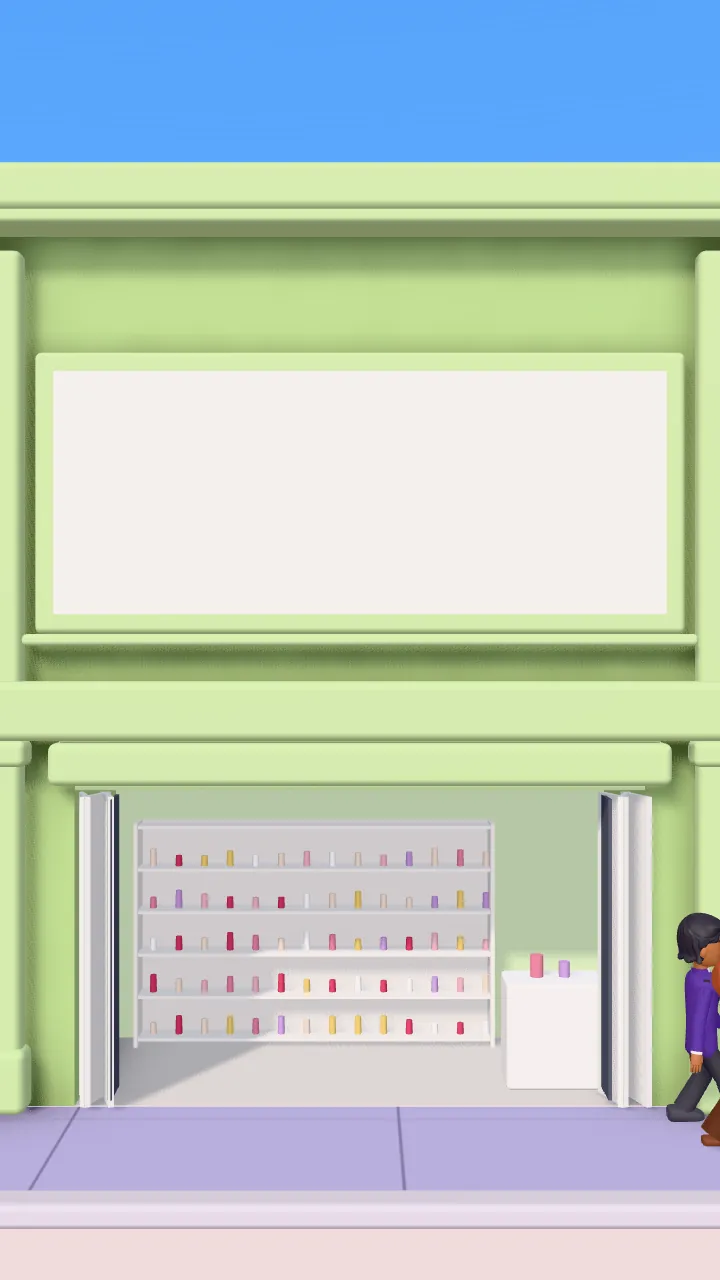
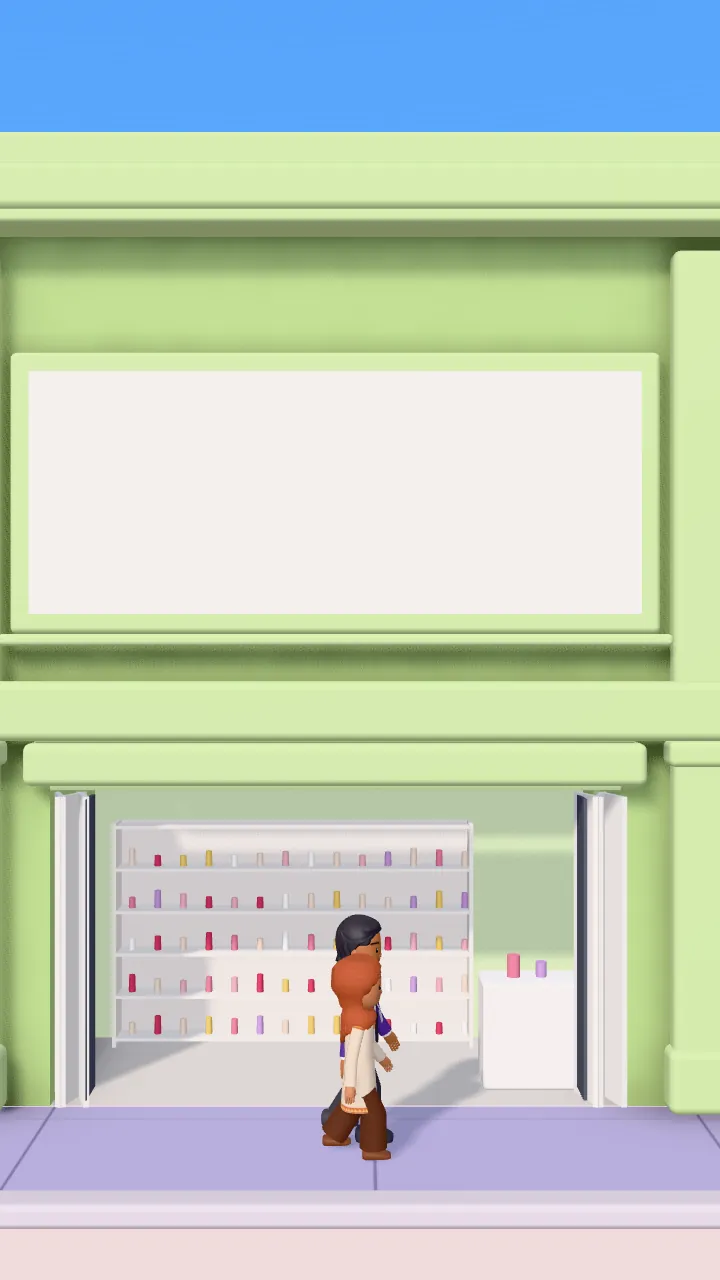
Take the electronics shop and its "Konsultasi gratis" panel out of the row
The row is five shops, then Kreatekno (its door ±42 m from COMPANY's). The
journey's CTA block on the panels goes with it (header, floating button and
the night billboard keep the CTA). The walk along the row is 0.5 screen
shorter so Heru and Bu Dewi keep their pace; the K5a.4 hold is centred on the
cosmetics shop's panel. The high view out of K9b uses the last shop. Row AO
re-baked, K5a.4 and K5a.6 stills re-rendered, the K5a.4b still dropped.

Claude-Session: https://claude.ai/code/session_01QgwjwXttiUF7uox4ZEd4Hu

diff --git a/site/world/sets/rowLayout.ts b/site/world/sets/rowLayout.ts
@@ -2,14 +2,14 @@
 // only (no three.js), shared by the world (set, camera, copy anchors) and the page. Metres, the world frame of
 // sets/street.ts: x along the street, y up, z toward the street, the facades at z 0.
 // Every shop is 7 m wide like the fruit shop and the laundry of K1 (Master 7: 0.62 × COMPANY's 11.6 m); its
-// first-floor panel carries the customer journey: fruit = kicker and heading, laundry … cosmetics = steps 1–4,
-// electronics = the "Konsultasi gratis" button pointing on to Kreatekno's door. The videos' internet café and stall
-// (blank panels) are left out (user, 7 Nov): six shops, then Kreatekno.
+// first-floor panel carries the customer journey: fruit = kicker and heading, laundry … cosmetics = steps 1–4.
+// The videos' internet café and stall (blank panels) are left out (user, 7 Nov), and the electronics shop with its
+// "Konsultasi gratis" panel too (user, 14 Nov): five shops, then Kreatekno.
 import { DATA } from "../takes/home/data";
 
-export type PanelCopy = "intro" | "talk" | "map" | "build" | "launch" | "cta" | null;
+export type PanelCopy = "intro" | "talk" | "map" | "build" | "launch" | null;
 export type Shop = {
-  id: "buah" | "laundry" | "sepatu" | "warteg" | "kosmetik" | "elektronik";
+  id: "buah" | "laundry" | "sepatu" | "warteg" | "kosmetik";
   /** Facade colour and its lighter trim (pillars, bands). */
   body: string;
   trim: string;
@@ -22,7 +22,6 @@ export const SHOPS: Shop[] = [
   { id: "sepatu", body: "#f0a9c6", trim: "#f6c3d8", copy: "map" },
   { id: "warteg", body: "#a6dbe6", trim: "#bfe7ef", copy: "build" },
   { id: "kosmetik", body: "#b6d58f", trim: "#c9e2a8", copy: "launch" },
-  { id: "elektronik", body: "#93dcc8", trim: "#ade6d6", copy: "cta" },
 ];
 
 const X0 = DATA.ext.xfR + 0.06;
@@ -45,13 +44,13 @@ export const ROW = {
   panel: { w: 5.2, h: 2.06, y: 5.25, z: 0.12 },
 } as const;
 
-/** Left and right edge and centre of shop i (0 = fruit … 7 = electronics). */
+/** Left and right edge and centre of shop i (0 = fruit … 4 = cosmetics). */
 export function shopX(i: number) {
   const x0 = ROW.x0 + i * ROW.pitch;
   return { x0, x1: x0 + ROW.w, cx: x0 + ROW.w / 2 };
 }
 
-/** Kreatekno's office after the electronics shop (video K5a.6: ±1.75 shops wide), its door, plaque and lamp. */
+/** Kreatekno's office after the last shop (video K5a.6: ±1.75 shops wide), its door, plaque and lamp. */
 const KX0 = shopX(SHOPS.length - 1).x1 + ROW.gap;
 export const KREATEKNO = {
   x0: KX0,

diff --git a/site/world/takes/home/timing.ts b/site/world/takes/home/timing.ts
@@ -8,9 +8,12 @@
 // read; the camera never waits on the copy (issue #4: no dwell).
 // Beats 5a–5b (the team's videos K4 → K5a.6): rise and turn to look over Heru's shoulder at Bu Dewi nodding (K4.1,
 // short hold), dolly straight back through the door out to the facade (K4.2, passed slowly, no hold), dolly out as
-// Heru and Bu Dewi come out (K5a.1, short hold), then truck right along the row: K5a.2–K5a.4 frame two panels each
-// and the camera stands still there, and K5a.6 settles at Kreatekno's door. The videos' K5a.5 (the stall and the
-// electronics shop) is gone with the blank shops (user, 7 Nov): K5a.4 frames the cosmetics and electronics shops.
+// Heru and Bu Dewi come out (K5a.1, short hold), then truck right along the row: K5a.2 and K5a.3 frame two panels
+// each, K5a.4 the cosmetics shop's (step 4) with Kreatekno coming in on the right, and K5a.6 settles at Kreatekno's
+// door. The videos' K5a.5 (the stall and the electronics shop) is gone with the blank shops (user, 7 Nov), and the
+// electronics shop with its "Konsultasi gratis" panel too (user, 14 Nov): the row is 0.5 screen shorter (one shop,
+// 7.05 m, at the pair's walk of ±14.6 m per screen), so the walk keeps its pace; the K5a.4 hold is centred on the
+// cosmetics shop's panel (9:16 has it in the middle of the screen at 13.7 screens).
 // Plain numbers only: the page imports this for the stage height and the stills fallback.
 import { holdP, scrollTotal, segmentsTotal, type Segment } from "../../core/segments";
 
@@ -68,9 +71,9 @@ export const SEG: Segment<KeyName>[] = [
   { type: "hold", from: "K5a.2", screens: 0.6 },
   { type: "move", from: "K5a.2", to: "K5a.3", screens: 0.5 },
   { type: "hold", from: "K5a.3", screens: 0.6 },
-  { type: "move", from: "K5a.3", to: "K5a.4", screens: 0.5 },
-  { type: "hold", from: "K5a.4", screens: 0.6 },
-  { type: "move", from: "K5a.4", to: "K5a.6", screens: 0.5 },
+  { type: "move", from: "K5a.3", to: "K5a.4", screens: 0.15 },
+  { type: "hold", from: "K5a.4", screens: 0.3 },
+  { type: "move", from: "K5a.4", to: "K5a.6", screens: 0.65 },
   { type: "hold", from: "K5a.6", screens: 0.3 },
   // Beats 6–9a (tahap 7, the team's videos K5a.6 → K9.1): through Kreatekno's door to the corkboard (K6), truck
   // left to the rack (K7), on left and round to the meeting room's glass (K8), turn to the facade (K9.1). Separate

diff --git a/site/world/sets/shop.ts b/site/world/sets/shop.ts
@@ -1,7 +1,7 @@
 // One two-storey shophouse of the row (Master 7 and the team's videos K5a.1–K5a.6): pillars, the first-floor band,
 // the white panel upstairs (the customer journey's copy sits on it as HTML, tahap 6 langkah 4), and the open shop
 // front with white folding doors pushed aside and the shop's goods inside. Shared by the main bundle (the fruit
-// shop and the laundry are seen from K0/K1 on) and the row chunk (./row, the other six).
+// shop and the laundry are seen from K0/K1 on) and the row chunk (./row, the other three).
 // Per shop: the front wall (its own material for its baked AO map), trim, body colour, white parts, and one
 // vertex-coloured mesh for the inside and the goods: ±6 draw calls, culled per shop.
 import * as THREE from "three";
@@ -343,27 +343,6 @@ function goods(id: Shop["id"], I: Tint, cx: number, ow: number, oh: number, deep
       I.add(G.rbox(0.9, 0.95, 0.5, 0.04), "#fbfafa", mtx([cx + 1.75, 0.48, z(0.6)]));
       I.add(G.cyl(0.06, 0.06, 0.2, 10), "#e88aa6", mtx([cx + 1.6, 1.05, z(0.6)]));
       I.add(G.cyl(0.05, 0.05, 0.14, 10), "#c9a0dc", mtx([cx + 1.85, 1.02, z(0.6)]));
-      break;
-    }
-    case "elektronik": {
-      // dark shelves with TVs, microwaves and speakers
-      const level = shelf(cx, ow - 0.4, 2.2, 0.5, 4, "#3a3d47");
-      const items: [number, number, string][] = [
-        [0.62, 0.38, "#1e2028"],
-        [0.5, 0.3, "#c9ccd3"],
-        [0.3, 0.42, "#2b2d36"],
-        [0.55, 0.34, "#1e2028"],
-      ];
-      for (let k = 0; k < 4; k++) {
-        let x = cx - (ow - 0.6) / 2;
-        while (x < cx + (ow - 0.6) / 2 - 0.3) {
-          const [w, h, col] = pick(items);
-          I.add(G.box(w, h, 0.36), col, mtx([x + w / 2, level(k) + h / 2, z(deep - 0.28)]));
-          if (col === "#1e2028")
-            I.add(G.box(w - 0.06, h - 0.06, 0.01), "#3d4766", mtx([x + w / 2, level(k) + h / 2, z(deep - 0.465)]));
-          x += w + 0.08;
-        }
-      }
       break;
     }
   }

diff --git a/site/components/home/stage.css b/site/components/home/stage.css
@@ -240,8 +240,7 @@
   margin-top: 20px;
 }
 
-/* beat 5b · the customer journey (stacked: the K5a.2 still, then the heading, the four steps and the button as
-   plain blocks; the other stills of beats 5a–5b only exist for the stills fallback) */
+/* beat 5b · the customer journey (stacked: the K5a.2 still, then the heading and the four steps as plain blocks; the other stills of beats 5a–5b only exist for the stills fallback) */
 .take-mark[data-at="K5a.2"] {
   order: 6;
 }
@@ -253,9 +252,6 @@
 }
 .journey-step {
   order: 9;
-}
-.journey-cta {
-  order: 10;
 }
 .take-still[data-stack="no"] {
   display: none;
@@ -305,16 +301,6 @@
 }
 .journey-step[data-step="launch"] {
   --acc: var(--color-navy);
-}
-.journey-cta {
-  display: flex;
-  align-items: center;
-  gap: 12px;
-}
-.cta-arrow {
-  width: 28px;
-  height: 28px;
-  color: var(--color-purple-deep);
 }
 
 @media (scripting: enabled) and (prefers-reduced-motion: no-preference) {
@@ -821,32 +807,5 @@
     font-size: max(13px, 4.9cqw);
     line-height: 1.3;
     text-wrap: pretty;
-  }
-  .journey-copy.journey-cta {
-    flex-direction: row;
-    align-items: center;
-    justify-content: center;
-    gap: 3.5cqw;
-  }
-  .journey-copy.journey-cta > * {
-    margin-inline: 0;
-  }
-  .journey-cta .btn {
-    --t-btn: max(14px, 5.2cqw);
-    gap: 3cqw;
-    min-height: max(44px, 14.5cqw);
-    padding-left: 6cqw;
-  }
-  .journey-cta .knob {
-    width: max(32px, 10.5cqw);
-    height: max(32px, 10.5cqw);
-  }
-  .journey-cta .knob svg {
-    width: 55%;
-    height: 55%;
-  }
-  .journey-cta .cta-arrow {
-    width: max(20px, 8cqw);
-    height: max(20px, 8cqw);
   }
 }

diff --git a/site/components/home/props/Journey.tsx b/site/components/home/props/Journey.tsx
@@ -1,13 +1,11 @@
-import { ArrowRight } from "@phosphor-icons/react/ssr";
 import { getTranslations } from "next-intl/server";
-import { WhatsAppButton } from "@/components/layout/WhatsAppButton";
 
 const STEPS = ["talk", "map", "build", "launch"] as const;
 
 /**
  * Beat 5b · Cara kerja: the customer journey printed on the white panels of the shophouses Heru and Bu Dewi walk past
  * (tahap 6): the fruit shop carries the kicker and the heading, the laundry, shoe shop, food stall and cosmetics
- * shop the four steps, the electronics shop the "Konsultasi gratis" button pointing on to Kreatekno's door. Real
+ * shop the four steps (the electronics shop with the "Konsultasi gratis" button was taken out, user 14 Nov). Real
  * HTML rendered on the server; in the film the world places each block on its panel (anchors "journey-*") at the
  * size it has on screen where the camera stops, so the text is sharp there. Hidden (not tabbable) while its panel is
  * off screen.
@@ -45,18 +43,6 @@ export async function Journey() {
           <p>{t(`${k}.body`)}</p>
         </div>
       ))}
-      <div
-        data-anchor
-        data-landscape="journey-cta"
-        data-portrait="journey-cta"
-        data-fade
-        className="prop-copy journey-copy journey-cta"
-        suppressHydrationWarning
-      >
-        <WhatsAppButton section="journey" />
-        {/* points on down the street to Kreatekno's door */}
-        <ArrowRight aria-hidden className="cta-arrow" weight="bold" />
-      </div>
     </>
   );
 }

diff --git a/site/world/takes/home/beat9.ts b/site/world/takes/home/beat9.ts
@@ -11,7 +11,7 @@ import * as THREE from "three";
 import { rectAnchor, type Anchor } from "../../core/anchors";
 import { clamp01, segmentStart, smoothstep } from "../../core/segments";
 import type { CamPose } from "../../core/take";
-import { KREATEKNO, shopX } from "../../sets/rowLayout";
+import { KREATEKNO, SHOPS, shopX } from "../../sets/rowLayout";
 import { monotone } from "./counter";
 import { k91View } from "./lobby";
 import { fitFov } from "./outside";
@@ -174,11 +174,12 @@ const K10 = v(32, 15.5, 7.5, 0, D2R(24), 40);
 const upTrack = (t: number) =>
   cached(`up ${t.toFixed(3)}`, () => {
     const a = t < 0.5 ? K9B_PC : mix(K9B_PC, K9B_HP[1], t);
-    const e5 = shopX(5);
+    // (the last shop left of Kreatekno: the electronics shop until it was taken out, user 14 Nov)
+    const e5 = shopX(SHOPS.length - 1);
     return track([
       { at: 0, view: a },
       { at: 0.12, view: v(P.cx - 0.6, 2.4, 4.6, -0.05, D2R(-6), 40) },
-      // high in front of the electronics shop, looking down at Kreatekno's front and the three on the pavement
+      // high in front of the last shop, looking down at Kreatekno's front and the three on the pavement
       { at: 0.38, view: v(e5.cx, 9.5, 14.5, -0.42, D2R(-30), 40) },
       { at: 0.6, view: v(e5.cx - 1.5, 12.5, 12.0, -0.3, D2R(-26), 40) },
       // over the roofs, looking along them (video 12.5–13 s)

diff --git a/site/world/sets/row.ts b/site/world/sets/row.ts
@@ -1,5 +1,5 @@
 // Set A continued (beats 5a–5b), its own chunk, built as the camera nears K4.1: the shophouses from the shoe shop
-// to the electronics shop (the fruit shop and the laundry, seen from K1 on, are built with the street), Kreatekno's
+// to the cosmetics shop (the fruit shop and the laundry, seen from K1 on, are built with the street), Kreatekno's
 // office and the end house, with the pavement, kerb and road running on past them. Master 7 and the team's videos
 // K5a.1–K5a.6. The lobby inside Kreatekno is its own chunk (sets/lobby, tahap 7); until it is built a lit backdrop
 // shows through the glass. The facade's glass is one-sided: dark seen from the street, nearly clear from the lobby.
@@ -365,7 +365,7 @@ function buildLampGlow(kit: Kit, x: number, y: number, z: number, plaqueTop: num
 const shutters = new WeakMap<Kit, THREE.Texture>();
 
 /**
- * The shops from the shoe shop to the electronics shop and the end house, in a group of their own: unseen from the
+ * The shops from the shoe shop to the cosmetics shop and the end house, in a group of their own: unseen from the
  * lobby, so the world lets them go there and builds them again (with their AO maps) on the way back out.
  */
 export function buildFar(kit: Kit, M: RowMaterials, ao: AoTarget[], occ: THREE.BufferGeometry[]) {

diff --git a/site/components/home/HomeTake.tsx b/site/components/home/HomeTake.tsx
@@ -37,9 +37,9 @@ const STILL_FADES: Record<string, [number, number]> = {
   "K5a.2b": [11.9, 12.08],
   "K5a.3": [12.4, 12.8],
   "K5a.3b": [13, 13.18],
-  "K5a.4": [13.5, 13.9],
-  "K5a.4b": [14.1, 14.28],
-  "K5a.6": [14.6, 15],
+  // (14 Nov: the electronics shop is gone, K5a.4 is the cosmetics shop's panel alone and the row 0.5 screen shorter)
+  "K5a.4": [13.4, 13.68],
+  "K5a.6": [14.1, 14.5],
   // beats 6–9a (tahap 7): each hold's still as the camera settles, on 9:16 one per stop, K9.1 at the turn
   ...lobbyStillFades(),
   // beats 9b–11 (tahap 8): the plaque as the dolly reaches it (9:16 its right column after), COMPANY's door
@@ -52,7 +52,7 @@ const STILL_FADES: Record<string, [number, number]> = {
 /** Stills of the row in order, per format: the journey's copy on one still fades out as the next comes in. */
 const ROW_STILLS = {
   pc: ["K5a.2", "K5a.3", "K5a.4", "K5a.6"],
-  hp: ["K5a.2", "K5a.2b", "K5a.3", "K5a.3b", "K5a.4", "K5a.4b", "K5a.6"],
+  hp: ["K5a.2", "K5a.2b", "K5a.3", "K5a.3b", "K5a.4", "K5a.6"],
 };
 /** Stills fallback: the leaflet's copy comes in on the K3 still and goes as the K4 still comes; the page's after. */
 // Both copies are fully visible at their keyframe, including when reached by a section link.

diff --git a/site/world/takes/home/outside.ts b/site/world/takes/home/outside.ts
@@ -60,11 +60,7 @@ const holds = (["K5a.1", "K5a.2", "K5a.3", "K5a.4", "K5a.6"] as const).map((k) =
 });
 
 /** hp: which panels each hold shows, as shop indices (for the copy's on-screen size, panelArrivals). */
-const HP_PANELS = [
-  [0, 1],
-  [2, 3],
-  [4, 5],
-];
+const HP_PANELS = [[0, 1], [2, 3], [4]];
 /** On 9:16 the share of a hold between its first panel and its second (screens). */
 const HP_SHIFT = 0.16;
 
@@ -231,8 +227,8 @@ export function beat5Camera(x: number, step: number, t: number, aspect: number, 
 export const b5Relax = (x: number) => smoothstep(B5.rise + 0.45 * RISE, B5.rise + 0.85 * RISE, x);
 
 /**
- * Scroll points on the row near each panel (screens): pc one per hold K5a.2–K5a.4, 9:16 one per panel (two in a
- * hold). The world measures the copy's on-screen size from the cameras there (the truck faces the panels square on,
+ * Scroll points on the row near each panel (screens): pc one per hold K5a.2–K5a.4, 9:16 one per panel (two in the
+ * K5a.2 and K5a.3 holds). The world measures the copy's on-screen size from the cameras there (the truck faces the panels square on,
  * so the size is the same wherever it passes them).
  */
 export function panelArrivals(hp: boolean) {

diff --git a/site/world/sets/night.ts b/site/world/sets/night.ts
@@ -94,7 +94,7 @@ export function buildNight(kit: Kit) {
     group.add(stars);
   }
 
-  // ---------- lamps along the parapets: COMPANY and the six shops (video 37–38.7 s: a warm dot every ±1.2 m) ----------
+  // ---------- lamps along the parapets: COMPANY and the five shops (video 37–38.7 s: a warm dot every ±1.2 m) ----------
   {
     const pts: number[] = [];
     const line = (x0: number, x1: number, y: number, z: number) => {
@@ -179,7 +179,7 @@ export function buildNight(kit: Kit) {
         g.fillRect(0, y + 2, w, 1);
       }
     });
-    // (the box and the rail in the slats' material too: one draw call for all six)
+    // (the box and the rail in the slats' material too: one draw call for all five)
     const door = new THREE.MeshStandardMaterial({ map: slats, roughness: 0.55, metalness: 0.25 }),
       dark = door,
       ow = ROW.opening.w + 0.08,

diff --git a/site/components/home/HomeStage.tsx b/site/components/home/HomeStage.tsx
@@ -40,7 +40,6 @@ const KEYS = [
   "K5a.3",
   "K5a.3b",
   "K5a.4",
-  "K5a.4b",
   "K5a.6",
   // the lobby (tahap 7): on 9:16 one still per stop of a hold (K6: the strip, then the 3 polaroids; K7: the sign, the
   // 3 books, the button; K8: the left and the right two columns of notes)
@@ -58,7 +57,6 @@ type Key = (typeof KEYS)[number];
 const HP_ONLY: Partial<Record<Key, string>> = {
   "K5a.2b": "K5a.2",
   "K5a.3b": "K5a.3",
-  "K5a.4b": "K5a.4",
   ...Object.fromEntries(LOBBY_KEYS.filter((k) => !/\d$/.test(k)).map((k) => [k, k.replace(/[b-h]$/, "")])),
   "K9b-2": "K9b",
 };

diff --git a/site/world/takes/home/outsideCast.ts b/site/world/takes/home/outsideCast.ts
@@ -338,7 +338,7 @@ export const BT = (() => {
     end,
   };
 })();
-/** Clock when Heru is near the electronics shop (the camera's high view, video 10.5 s). */
+/** Clock when Heru is near the last shop before Kreatekno (the camera's high view, video 10.5 s). */
 const BT_HIGH = BT.h6 + H6.timeAt((p) => p.z > 0 && p.x <= KREATEKNO.x0 - 3.5);
 
 // ---------- beats 12–13 (tahap 9, the continuation video 21–24 s; greybox) ----------
